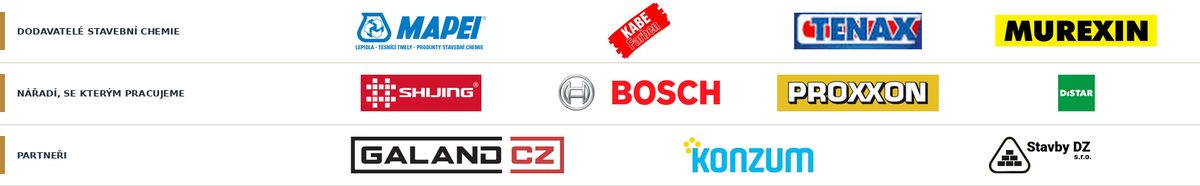
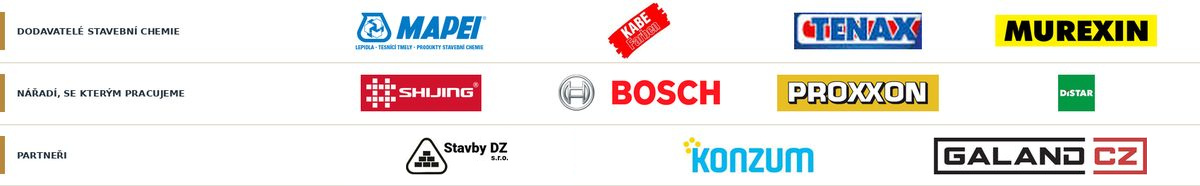
Partneři: prohození loga Galand CZ a Stavby DZ
Claude-Session: https://claude.ai/code/session_01CpenBuSxTrnSMWHS1faTkp

Changed region(s): [[0.2775, 0.7258, 0.4933, 0.9409], [0.7708, 0.7258, 0.9558, 0.9409]]

diff --git a/index.html b/index.html
@@ -188,7 +188,7 @@ label.check input{width:auto;margin-top:5px;flex:none}
 <section class="partners" id="partneri"><div class="wrap">
  <h2>Materiály a partneři</h2>
  <p class="lead">Pracujeme s prověřenou stavební chemií a nářadím a spolupracujeme s firmami, na které se můžeme spolehnout.</p>
- <div class="strip"><img src="assets/partners.jpg" width="1200" height="186" loading="lazy" alt="Dodavatelé stavební chemie: Mapei, KABE Farben, Tenax, Murexin. Nářadí: Shijing, Bosch, Proxxon, DiStar. Partneři: Galand CZ, Konzum, Stavby DZ."></div>
+ <div class="strip"><img src="assets/partners.jpg" width="1200" height="186" loading="lazy" alt="Dodavatelé stavební chemie: Mapei, KABE Farben, Tenax, Murexin. Nářadí: Shijing, Bosch, Proxxon, DiStar. Partneři: Stavby DZ, Konzum, Galand CZ."></div>
 </div></section>
 
 <section><div class="wrap two">
